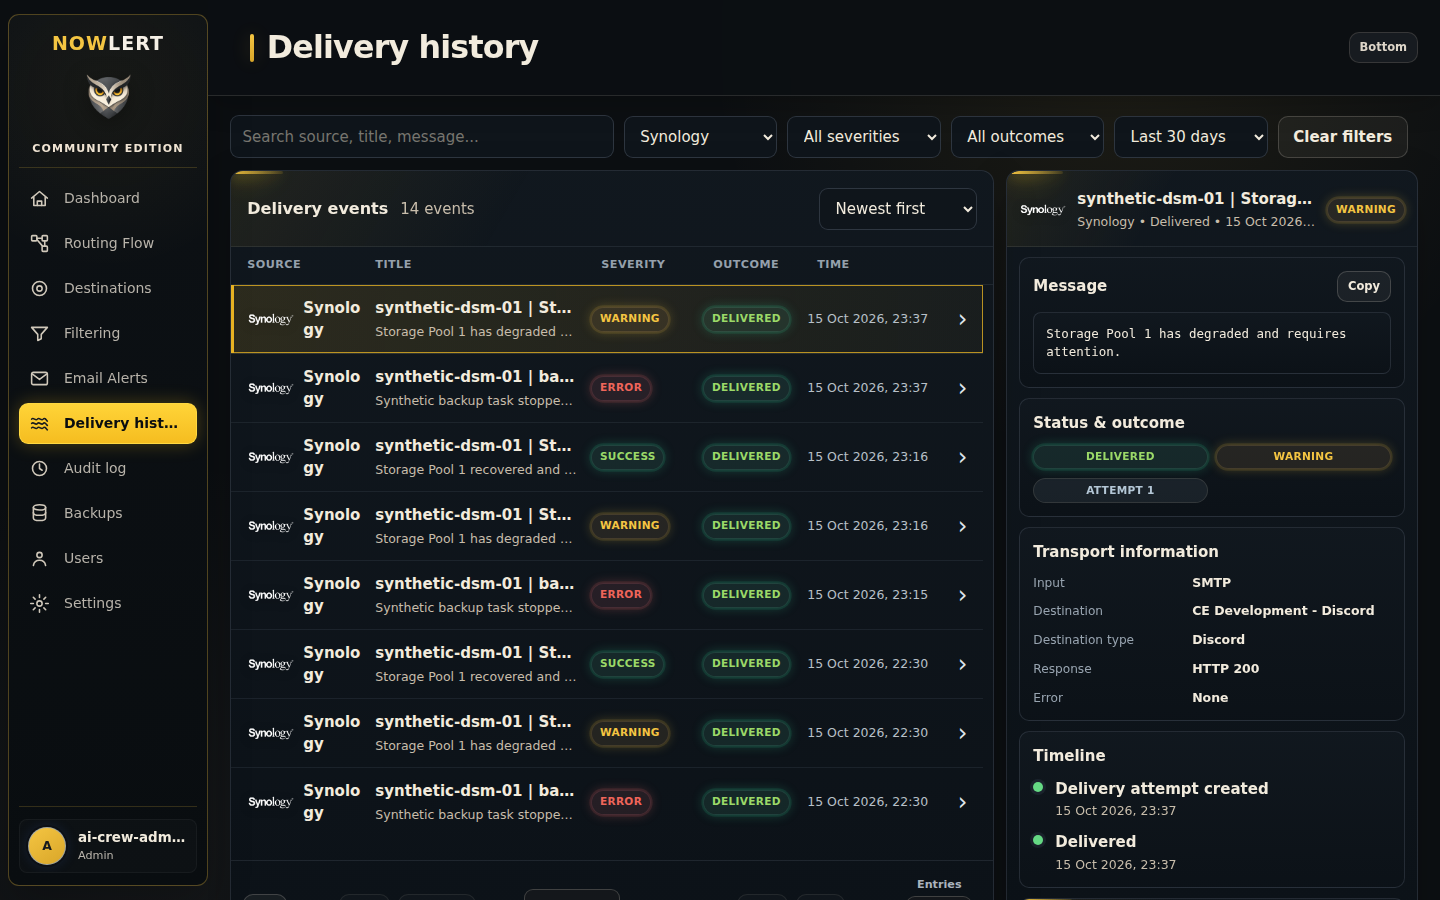
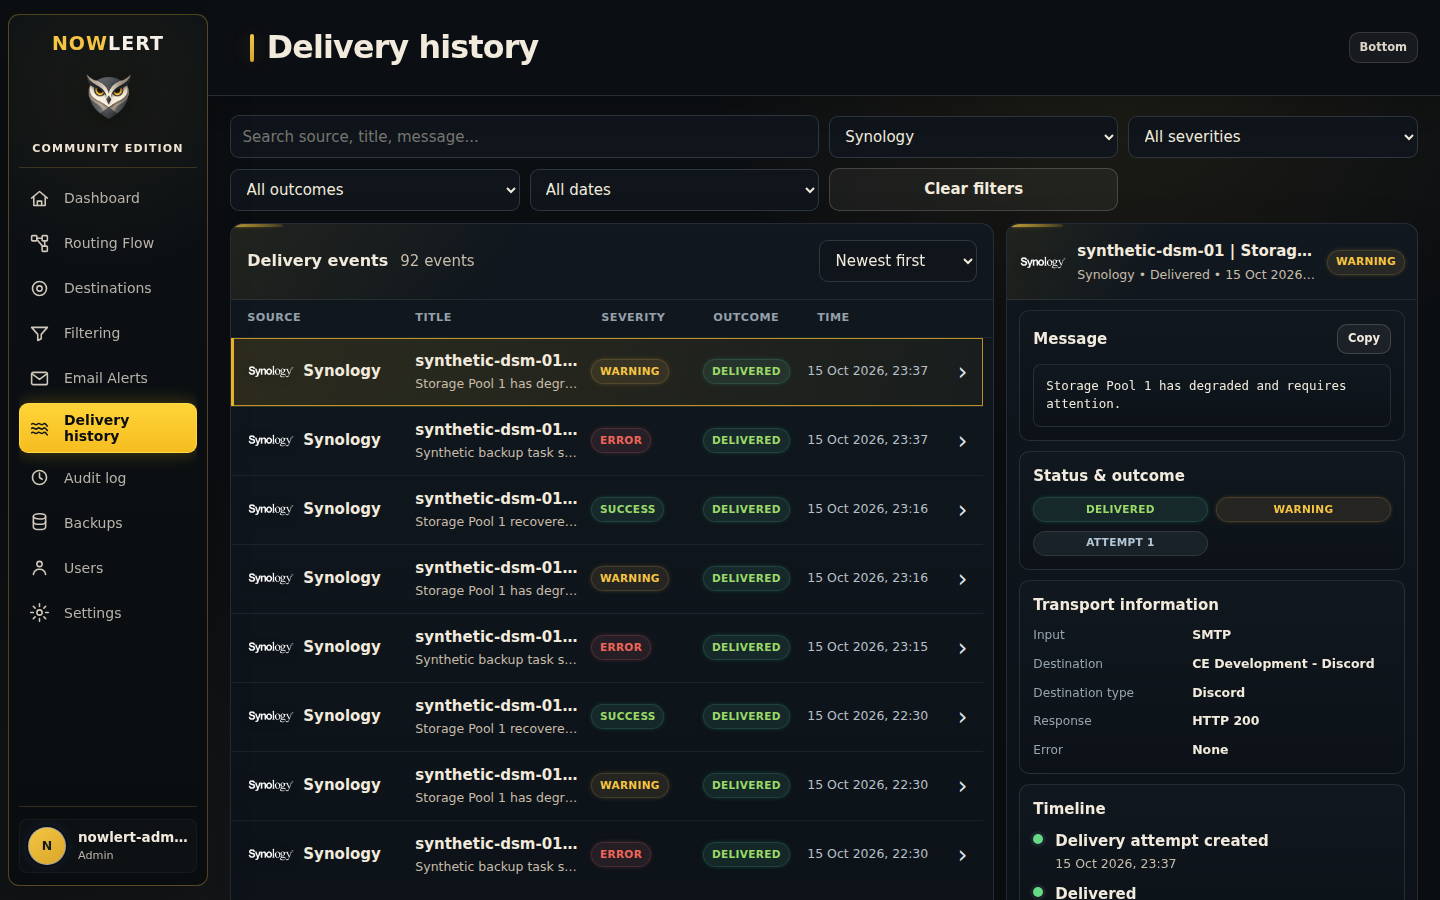
docs: retake the captures changed by the round-3 readiness fixes
Nine captures of docs/images/v27.0.0-rc.1 no longer matched Development
after pull requests 675 and 676: the three Routing Flow captures (Dell
iDRAC tile), the 1440 and 768 px Email Alerts rules captures (enabled-rule
counts), both Security captures (Remove only with a picture, Event API
tokens heading) and the Synology- and Zabbix-filtered Delivery history
captures (wrapping sidebar label, whole source names). They are retaken
from Development fd6bd11f as the neutral administrator nowlert-admin and,
for the regular-user Security capture, a temporary user deleted afterwards.
Only the Zabbix capture is masked, with the same scope as before. The
capture index, the screenshot privacy review and the WebUI guide record
the retakes.

diff --git a/docs/images/v27.0.0-rc.1/README.md b/docs/images/v27.0.0-rc.1/README.md
@@ -10,7 +10,9 @@ and the Filtering capture from the Development build `0c14583c`; see
 Eight captures were replaced on 12 November 2026 from the Development build
 `0011c903`; see "Replaced on 12 November 2026" below.
 The Settings and Audit log captures were replaced on 28 November 2026 from the
-Development build `ea51fc67`; see "Replaced on 28 November 2026" below.
+Development build `ea51fc67`; see "Replaced on 28 November 2026" below. Nine
+more were replaced later that day from the Development build `fd6bd11f`; see
+"Replaced again on 28 November 2026" below.
 Nowlert CE is a desktop web
 application: since 25 October 2026 the Preview of the repository README and
 the Docker Hub README shows four of its desktop captures at full width,
@@ -36,8 +38,9 @@ commit `342698c67fe000a11b02994ed289f0cf45b22166` (running application version
 [Development after v3.1.6](../../releases/post-v3.1.6-development.md)).
 
 The captures use the crew's Development test accounts (`ai-crew-admin-…`,
-`ai-crew-user-…`), except the two replaced on 28 November 2026, which are
-signed in as the neutral Development test administrator `nowlert-admin`; all
+`ai-crew-user-…`), except the eleven replaced on 28 November 2026, which are
+signed in as the neutral Development test administrator `nowlert-admin` (or,
+for the regular-user Security capture, the temporary user `nowlert-user`); all
 of them show the Development test destinations described under "Names shown
 in the captures" below and test events. No credential,
 token, private address, personal name or customer data is shown; pages that
@@ -52,44 +55,45 @@ pixels at scale 1: 1440×900 (desktop), 768×1024 (tablet) and 390×844 (phone).
 | `sign-in-empty-signed-out-768.png` | Sign in, empty form | signed out | 768 | about 14:40 |
 | `sign-in-empty-signed-out-390.png` | Sign in, empty form | signed out | 390 | about 14:40 |
 | `dashboard-live-admin-1440.png` | Dashboard, Live, last month | administrator | 1440 | replaced 27 Nov 2026, 11:58 |
-| `routing-flow-live-admin-1440.png` | Routing Flow, Live, last month | administrator | 1440 | replaced 27 Nov 2026, 12:02 |
+| `routing-flow-live-admin-1440.png` | Routing Flow, Live, last month | administrator | 1440 | replaced 28 Nov 2026, 10:06 |
 | `destinations-list-admin-1440.png` | Destinations list | administrator | 1440 | 15:48 |
 | `filtering-list-admin-1440.png` | Filtering with Integration behavior | administrator | 1440 | replaced 12 Nov 2026, 19:00 |
-| `email-alerts-rules-admin-1440.png` | Email Alerts, Rules tab | administrator | 1440 | 15:49 |
+| `email-alerts-rules-admin-1440.png` | Email Alerts, Rules tab | administrator | 1440 | replaced 28 Nov 2026, 10:06 |
 | `audit-log-overview-admin-1440.png` | Audit log (record identifiers masked) | administrator | 1440 | replaced 28 Nov 2026, 08:17 |
 | `settings-regional-admin-1440.png` | Settings (Regional, Updates, Housekeeping) | administrator | 1440 | replaced 28 Nov 2026, 08:13 |
-| `security-profile-admin-1440.png` | Security (Profile, MFA, password, Event API tokens) | administrator | 1440 | replaced 12 Nov 2026, 19:00 |
+| `security-profile-admin-1440.png` | Security (Profile, MFA, password, Event API tokens) | administrator | 1440 | replaced 28 Nov 2026, 10:06 |
 | `users-search-admin-1440.png` | Users, filtered to the crew accounts (Recent activity account names masked) | administrator | 1440 | replaced 12 Nov 2026, 19:00 |
-| `delivery-history-zabbix-admin-1440.png` | Delivery history, Zabbix source filter (host and database labels and sidebar account name masked on 2 Nov 2026; not embedded) | administrator | 1440 | 15:53 |
+| `delivery-history-zabbix-admin-1440.png` | Delivery history, Zabbix source filter, All dates (row titles, detail header and message body masked; not embedded) | administrator | 1440 | replaced 28 Nov 2026, 10:06 |
 | `email-alerts-groups-admin-1440.png` | Email Alerts, Groups tab | administrator | 1440 | 15:53 |
 | `destination-editor-teams-admin-1440.png` | Add destination, Microsoft Teams, Message style | administrator | 1440 | 15:54 |
 | `destination-preview-teams-modern-admin-1440.png` | Preview dialog, Teams destination saved as Modern Card, output scrolled to the card body | administrator | 1440 | 20:44 |
 | `destination-preview-teams-classic-admin-1440.png` | Preview dialog, Teams destination saved as Classic Card, output scrolled to the card body | administrator | 1440 | 20:41 |
 | `destinations-list-admin-768.png` | Destinations list | administrator | 768 | 17:57 |
 | `dashboard-live-admin-768.png` | Dashboard, Live, last month | administrator | 768 | replaced 12 Nov 2026, 19:00 |
-| `routing-flow-live-admin-768.png` | Routing Flow, Live | administrator | 768 | 18:04 |
-| `routing-flow-live-admin-390.png` | Routing Flow, Live | administrator | 390 | 18:05 |
+| `routing-flow-live-admin-768.png` | Routing Flow, Live | administrator | 768 | replaced 28 Nov 2026, 10:07 |
+| `routing-flow-live-admin-390.png` | Routing Flow, Live | administrator | 390 | replaced 28 Nov 2026, 10:07 |
 | `dashboard-live-admin-390.png` | Dashboard, Live, last month | administrator | 390 | replaced 12 Nov 2026, 19:00 |
 | `destinations-list-admin-390.png` | Destinations list | administrator | 390 | 18:05 |
 | `dashboard-live-user-1440.png` | Dashboard, Live, last month | regular user | 1440 | replaced 12 Nov 2026, 19:00 |
 | `destinations-list-user-1440.png` | Destinations list (shared destinations of other owners, all view only) | regular user | 1440 | 18:06 |
-| `security-profile-user-1440.png` | Security (Profile, MFA, password, Event API tokens) | regular user | 1440 | replaced 12 Nov 2026, 19:00 |
+| `security-profile-user-1440.png` | Security (Profile, MFA, password, Event API tokens) | regular user | 1440 | replaced 28 Nov 2026, 10:07 |
 
 The two preview captures were replaced on 21 October 2026 at the times shown.
 The Zabbix-filtered Delivery history capture of 21 October 2026 (15:53) and
 the Audit log capture (15:49) were withdrawn on 23 October 2026 and restored
 on 2 November 2026 with their exposed labels masked; see "Withdrawn on
-23 October 2026, restored masked on 2 November 2026" below. Eleven files of
+23 October 2026, restored masked on 2 November 2026" below. Fifteen files of
 this table were replaced later, as the last column shows: the Filtering
-capture, both Security captures, the Users capture and the 768 px, 390 px and
-regular user Dashboard captures on 12 November 2026 ("Replaced on 12 November
-2026" below; the Filtering and Security files had already been replaced once
-on 31 October 2026); the 1440 px Dashboard and Routing Flow captures on
-27 November 2026; and the Settings capture (first replaced on 31 October 2026)
-and the Audit log capture (restored masked on 2 November 2026) on
-28 November 2026 ("Replaced on 28 November 2026" below). Only the
-Zabbix-filtered Delivery history file is still the masked capture of
-2 November 2026, and the other 14 files of this table are unchanged since
+capture, the Users capture and the 768 px, 390 px and regular user Dashboard
+captures on 12 November 2026 ("Replaced on 12 November 2026" below; the
+Filtering file had already been replaced once on 31 October 2026); the
+1440 px Dashboard capture on 27 November 2026; the Settings capture (first
+replaced on 31 October 2026) and the Audit log capture (restored masked on
+2 November 2026) on 28 November 2026 ("Replaced on 28 November 2026" below);
+and, later the same day, the 1440, 768 and 390 px Routing Flow captures, the
+1440 px Email Alerts rules capture, both Security captures and the
+Zabbix-filtered Delivery history capture ("Replaced again on 28 November
+2026" below). The other 11 files of this table are unchanged since
 21 October 2026.
 
 ## Added on 22 October 2026 (commit 8dc1b2ca)
@@ -107,7 +111,7 @@ crew administrator account, same viewports.
 |---|---|---|---|---|
 | `destination-preview-routes-drawer-admin-1440.png` | Preview dialog with the **Manage routes** drawer open: Done button, Active badge beside each route | administrator | 1440 | 22:43 |
 | `destination-preview-discord-debug-admin-1440.png` | Preview dialog, Discord destination, severity **Debug**, generic sample source, output scrolled to the context line that reads **Debug** | administrator | 1440 | 22:49 |
-| `email-alerts-rules-admin-768.png` | Email Alerts, Rules tab as stacked rule cards | administrator | 768 | 22:49 |
+| `email-alerts-rules-admin-768.png` | Email Alerts, Rules tab as stacked rule cards | administrator | 768 | replaced 28 Nov 2026, 10:07 |
 | `email-alerts-rules-admin-390.png` | Email Alerts, Rules tab as stacked rule cards, scrolled to the first full card | administrator | 390 | 22:50 |
 | `email-alerts-mailbox-edit-imap-admin-1440.png` | Edit mailbox dialog of the IMAP test mailbox of the QA fixture (username and password optional, folder scan unavailable) | administrator | 1440 | 22:51 |
 
@@ -162,7 +166,7 @@ the [screenshot privacy review](../../guides/screenshot-privacy.md).
 
 | File | Page / state | Role | Width | Captured (Lisbon) |
 |---|---|---|---|---|
-| `delivery-history-synology-admin-1440.png` | Delivery history, **Synology** source filter, **Last 30 days**, newest first, first event selected with its detail pane | administrator | 1440 | 10:48 |
+| `delivery-history-synology-admin-1440.png` | Delivery history, **Synology** source filter, **All dates**, newest first, first event selected with its detail pane | administrator | 1440 | replaced 28 Nov 2026, 10:06 |
 
 Note on this file: the rows are the Synology sample events of 15 October 2026
 for the device `synthetic-dsm-01`, the device name of the repository's
@@ -354,14 +358,51 @@ log, after the masking). No credential, token, private address or personal
 name is shown; the Settings values are the stored preferences of the
 Development deployment.
 
+## Replaced again on 28 November 2026 (capture base commit fd6bd11f)
+
+The readiness fixes of round 3 (pull requests 675 and 676) changed what nine
+captures show: the Dell iDRAC logo in Routing Flow sits on a light tile, the
+Email Alerts cards count the enabled rules of each classification, the
+Security page offers **Remove** only when there is a profile picture and heads
+its token section **Event API tokens**, a sidebar label that does not fit
+wraps instead of being cut off ("Delivery history" when selected), and the
+Delivery history source names no longer break mid-word. The nine files were
+replaced by captures of the Development deployment of the `development`
+branch at commit `fd6bd11f869a5f9ce07edc28b9ca2d6a140bcacf` (application
+version 27.0.0), taken on 28 November 2026 between 10:06 and 10:08 (Lisbon,
++00:00) in headless Chrome at scale 1, dark theme, with the viewports
+1440 × 900, 768 × 1024 and 390 × 844. The administrator captures are signed in
+as the neutral Development test administrator `nowlert-admin`. The
+regular-user Security capture is signed in as `nowlert-user`, a regular user
+created for that capture with a random password and deleted right after it.
+
+| File | Page / state | Role | Width |
+|---|---|---|---|
+| `routing-flow-live-admin-1440.png` | Routing Flow, **Last 1 month**: counters, integration cards with the Dell iDRAC logo on a light tile, the filter card and two destinations | administrator | 1440 |
+| `routing-flow-live-admin-768.png` | Routing Flow, **Last 24 hours**, two-column layout | administrator | 768 |
+| `routing-flow-live-admin-390.png` | Routing Flow, **Last 24 hours**, top of the page | administrator | 390 |
+| `email-alerts-rules-admin-1440.png` | Email Alerts, Rules tab: enabled-rule counts per classification above the rules table | administrator | 1440 |
+| `email-alerts-rules-admin-768.png` | Email Alerts, Rules tab as stacked rule cards, below the enabled-rule counts | administrator | 768 |
+| `security-profile-admin-1440.png` | Security: **Choose picture** without **Remove**, **Event API tokens** heading, **+ New token** | administrator | 1440 |
+| `security-profile-user-1440.png` | Security for the regular user `nowlert-user`, same layout | regular user | 1440 |
+| `delivery-history-synology-admin-1440.png` | Delivery history, **Synology** source filter, **All dates**, newest first, first event selected; the selected sidebar label wraps to two lines | administrator | 1440 |
+| `delivery-history-zabbix-admin-1440.png` | Delivery history, **Zabbix** source filter, **All dates**, first event selected; the row titles, the detail header and the message body are painted over with solid black rectangles because they name the test fixture's VM-numbered hosts and databases, as on the capture of 2 November 2026; not embedded | administrator | 1440 |
+
+Every file was opened at full size after the capture (and, for the Zabbix
+capture, after the masking). No credential, token, private address or
+personal name is shown. The 390 px Email Alerts rules capture shows only rule
+cards, whose layout did not change, so it was kept.
+
 ## Names shown in the captures
 
 - The accounts `ai-crew-admin-…` and `ai-crew-user-…` are the crew's
   Development test accounts.
 - `nowlert-admin`, in the User column and the sidebar account chip of the
-  Settings and Audit log captures replaced on 28 November 2026, is the neutral
-  Development test administrator used for documentation captures. It is a
-  generic account name, not a personal name, so it is not masked.
+  captures replaced on 28 November 2026, is the neutral Development test
+  administrator used for documentation captures. It is a generic account
+  name, not a personal name, so it is not masked. `nowlert-user` in the
+  regular-user Security capture is a generic regular user created only for
+  that capture and deleted right after it.
 - `Nextcloud NFS - CE Development`, in the **NFS backup target** health check
   of `audit-log-overview-admin-1440.png`, is the name typed for the
   Development deployment's NFS backup destination. It names the kind of

diff --git a/docs/guides/screenshot-privacy.md b/docs/guides/screenshot-privacy.md
@@ -237,6 +237,18 @@ observations and the guard test, not this prose, is the authority.
   in **Recent activity**, the account name of the Development deployment's
   administrator; two solid black boxes hide it. See the capture index for
   the build, viewports and accounts.
+- 28 November 2026: nine captures of `images/v27.0.0-rc.1/` were replaced by
+  captures of the Development build `fd6bd11f` after the readiness fixes of
+  pull requests 675 and 676 (the three Routing Flow captures, the 1440 and
+  768 px Email Alerts rules captures, both Security captures and the Synology-
+  and Zabbix-filtered Delivery history captures), signed in as the neutral
+  test administrator `nowlert-admin` and, for the regular-user Security
+  capture, a temporary regular user `nowlert-user` deleted after the capture.
+  Each was opened at full size before being added. Only the Zabbix-filtered
+  capture is masked: solid black rectangles over the row titles, the detail
+  header and the message body, the same scope as its capture of
+  2 November 2026, because those texts name the test fixture's VM-numbered
+  hosts and databases. Blur was not used.
 
 ## Withdrawn captures
 
@@ -511,8 +523,8 @@ raster under `docs/images/` needs a row.
 | `images/v27.0.0-rc.1/dashboard-live-admin-390.png` | retained | Development capture, 12 Nov 2026 (replaces the capture of 21 Oct 2026); opened at full size 12 Nov 2026, no account, owner, destination or channel name; responsive-layout example in the WebUI guide |
 | `images/v27.0.0-rc.1/dashboard-live-admin-768.png` | retained | Development capture, 12 Nov 2026 (replaces the capture of 21 Oct 2026); opened at full size 12 Nov 2026 |
 | `images/v27.0.0-rc.1/dashboard-live-user-1440.png` | retained | Development capture, 12 Nov 2026 (replaces the capture of 21 Oct 2026); opened at full size 12 Nov 2026; crew user account |
-| `images/v27.0.0-rc.1/delivery-history-synology-admin-1440.png` | retained | Development capture, 23 Oct 2026; test fixture device `synthetic-dsm-01` only |
-| `images/v27.0.0-rc.1/delivery-history-zabbix-admin-1440.png` | retained | Development capture, 21 Oct 2026; restored from Git history and masked 2 Nov 2026 (the row title, the detail header, the whole message body and, after the independent review the same day, the account name in the sidebar corner); still shows the Zabbix filter, badges, transport information and timeline; not embedded, the Synology capture is the reference |
+| `images/v27.0.0-rc.1/delivery-history-synology-admin-1440.png` | retained | Development capture, 28 Nov 2026, as `nowlert-admin` (replaces the capture of 23 Oct 2026); test fixture device `synthetic-dsm-01` only |
+| `images/v27.0.0-rc.1/delivery-history-zabbix-admin-1440.png` | retained | Development capture, 28 Nov 2026, as `nowlert-admin` (replaces the masked capture of 21 Oct 2026); the row titles, the detail header and the whole message body painted over with solid black rectangles; still shows the Zabbix filter, badges, transport information and timeline; not embedded, the Synology capture is the reference |
 | `images/v27.0.0-rc.1/destination-editor-teams-admin-1440.png` | retained | Development capture, 21 Oct 2026 |
 | `images/v27.0.0-rc.1/destination-preview-teams-classic-admin-1440.png` | retained | Development capture, 21 Oct 2026 |
 | `images/v27.0.0-rc.1/destination-preview-teams-modern-admin-1440.png` | retained | Development capture, 21 Oct 2026 |
@@ -523,16 +535,16 @@ raster under `docs/images/` needs a row.
 | `images/v27.0.0-rc.1/destinations-list-admin-768.png` | retained | Development capture, 21 Oct 2026 |
 | `images/v27.0.0-rc.1/destinations-list-user-1440.png` | retained | Development capture, 21 Oct 2026 |
 | `images/v27.0.0-rc.1/email-alerts-groups-admin-1440.png` | retained | Development capture, 21 Oct 2026 |
-| `images/v27.0.0-rc.1/email-alerts-rules-admin-1440.png` | retained | Development capture, 21 Oct 2026 |
-| `images/v27.0.0-rc.1/email-alerts-rules-admin-768.png` | retained | Development capture, 22 Oct 2026 |
+| `images/v27.0.0-rc.1/email-alerts-rules-admin-1440.png` | retained | Development capture, 28 Nov 2026, as `nowlert-admin` (replaces the capture of 21 Oct 2026); CE QA test rules and groups only |
+| `images/v27.0.0-rc.1/email-alerts-rules-admin-768.png` | retained | Development capture, 28 Nov 2026, as `nowlert-admin` (replaces the capture of 22 Oct 2026); CE QA test rules and groups only |
 | `images/v27.0.0-rc.1/email-alerts-rules-admin-390.png` | retained | Development capture, 22 Oct 2026 |
 | `images/v27.0.0-rc.1/email-alerts-mailbox-edit-imap-admin-1440.png` | retained | Development capture, 22 Oct 2026; fixture address and loopback host only |
 | `images/v27.0.0-rc.1/filtering-list-admin-1440.png` | retained | Development capture, 12 Nov 2026 (replaces the capture of 31 Oct 2026); shared crew test destinations, their filter names and badges, Integration behavior cards with zero aliases |
-| `images/v27.0.0-rc.1/routing-flow-live-admin-1440.png` | retained | Development capture, 27 Nov 2026, Live, last month (replaces the capture of 21 Oct 2026); opened at full size 27 Nov 2026; crew administrator, test integrations and destinations; README and Docker Hub Preview |
-| `images/v27.0.0-rc.1/routing-flow-live-admin-390.png` | retained | Development capture, 21 Oct 2026; opened 24 Oct 2026, no account, owner, destination or channel name; responsive-layout example in the WebUI guide |
-| `images/v27.0.0-rc.1/routing-flow-live-admin-768.png` | retained | Development capture, 21 Oct 2026 |
-| `images/v27.0.0-rc.1/security-profile-admin-1440.png` | retained | Development capture, 12 Nov 2026 (replaces the capture of 31 Oct 2026); crew administrator account, empty token list, no token value |
-| `images/v27.0.0-rc.1/security-profile-user-1440.png` | retained | Development capture, 12 Nov 2026 (replaces the capture of 31 Oct 2026); crew user account, empty token list, no token value |
+| `images/v27.0.0-rc.1/routing-flow-live-admin-1440.png` | retained | Development capture, 28 Nov 2026, Live, last month, as `nowlert-admin` (replaces the capture of 27 Nov 2026); test integrations and destinations; README and Docker Hub Preview |
+| `images/v27.0.0-rc.1/routing-flow-live-admin-390.png` | retained | Development capture, 28 Nov 2026, as `nowlert-admin` (replaces the capture of 21 Oct 2026); no account, owner, destination or channel name; responsive-layout example in the WebUI guide |
+| `images/v27.0.0-rc.1/routing-flow-live-admin-768.png` | retained | Development capture, 28 Nov 2026, as `nowlert-admin` (replaces the capture of 21 Oct 2026); test integrations and destinations |
+| `images/v27.0.0-rc.1/security-profile-admin-1440.png` | retained | Development capture, 28 Nov 2026, as `nowlert-admin` (replaces the capture of 12 Nov 2026); no picture, empty token list, no token value |
+| `images/v27.0.0-rc.1/security-profile-user-1440.png` | retained | Development capture, 28 Nov 2026, as the temporary regular user `nowlert-user` (replaces the capture of 12 Nov 2026); no picture, empty token list, no token value |
 | `images/v27.0.0-rc.1/settings-regional-admin-1440.png` | retained | Development capture, 28 Nov 2026 (replaces the capture of 31 Oct 2026); Development settings values only |
 | `images/v27.0.0-rc.1/sign-in-empty-signed-out-1440.png` | retained | Development capture, 21 Oct 2026; opened at full size 25 Oct 2026; README and Docker Hub Preview |
 | `images/v27.0.0-rc.1/sign-in-empty-signed-out-390.png` | retained | Development capture, 21 Oct 2026; opened 24 Oct 2026, no account, owner, destination or channel name; not embedded since 25 Oct 2026 |

diff --git a/docs/webui.md b/docs/webui.md
@@ -376,11 +376,11 @@ Pagination behavior is shared with Audit log:
 ![Delivery history filtered to the Synology source, newest first, first event selected (development, administrator, 1440 px)](images/v27.0.0-rc.1/delivery-history-synology-admin-1440.png)
 
 The capture shows the synthetic Synology sample events of the Development
-deployment (device `synthetic-dsm-01`) with the **Last 30 days** range and the
+deployment (device `synthetic-dsm-01`) with the **All dates** range and the
 first event selected, so the detail pane on the right shows its message,
 outcome, transport information and timeline.
 
-The Zabbix-filtered Development capture of 21 October 2026
+The Zabbix-filtered Development capture of 28 November 2026
 (`delivery-history-zabbix-admin-1440.png` in the same folder) is kept with its
 VM-numbered host and database labels masked and is listed in the folder index;
 the Synology capture above is the packaged reference for this page. The
